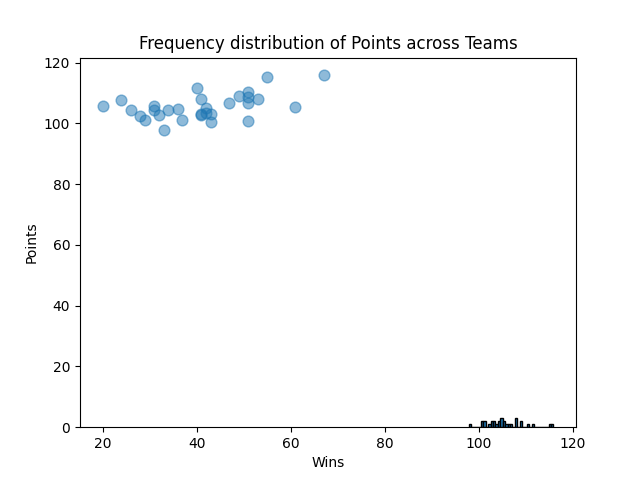
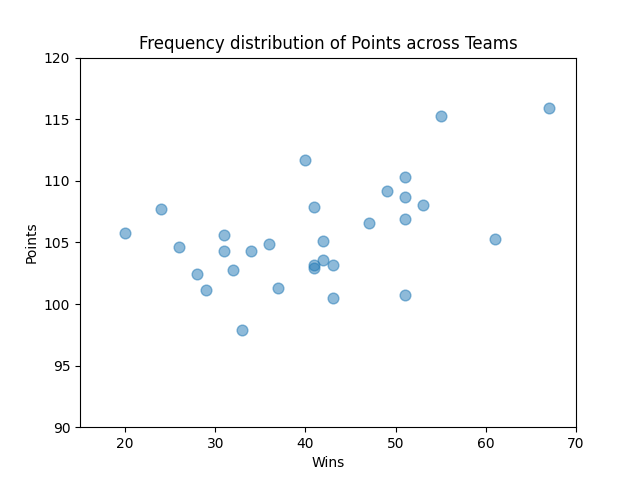
change main.py

diff --git a/descriptive.py b/descriptive.py
@@ -25,6 +25,8 @@ if __name__ == "__main__":
     plt.scatter(nba["wins"], nba["points"], alpha=0.5, s=60)
     plt.xlabel("Wins")
     plt.ylabel("Points")
+    plt.xlim(15, 70)
+    plt.ylim(90, 120)
     plt.show()
     plt.savefig("figures/scatter.png")
 
@@ -32,7 +34,7 @@ if __name__ == "__main__":
     ## Descriptive statistics 
 
     {summary.to_pandas().to_markdown()} 
-    
+
     ## Here are some plots to visualize relations between the important variables described in README. 
     ### Histogram for Cumulative Points for all the teams during the season 
      ![Alt text](figures/points-hist.png) 

diff --git a/report.md b/report.md
@@ -1,5 +1,5 @@
 # This is the generated report for summary statistics and visualization for [nba-teams-2017.csv](https://github.com/nogibjj/706_Week03_YL/blob/main/nba-teams-2017.csv).
-## Descriptive statistics 
+    ## Descriptive statistics 
 
     |    | describe   |   games_played |   wins |   losses |   win_prop |   minutes |   points |   field_goals |   field_goals_attempted |   field_goals_prop |   points3 |   points3_attempted |   points3_prop |   free_throws |   free_throws_att |   free_throws_prop |   off_rebounds |   def_rebounds |   rebounds |   assists |   turnovers |    steals |   blocks |   block_fga |   personal_fouls |   personal_fouls_drawn |   plus_minus |
 |---:|:-----------|---------------:|-------:|---------:|-----------:|----------:|---------:|--------------:|------------------------:|-------------------:|----------:|--------------------:|---------------:|--------------:|------------------:|-------------------:|---------------:|---------------:|-----------:|----------:|------------:|----------:|---------:|------------:|-----------------:|-----------------------:|-------------:|
@@ -12,9 +12,9 @@
 |  6 | 50%        |             82 | 41     |   41     |   0.5      | 48.3      | 105.1    |      39.3     |                85.4     |           45.5     |   9.4     |            26.1     |       35.7     |      18       |          23.2     |           77.6     |        10.1    |       33.5     |   43.6     |  22.5     |    13.8     |  7.8      |  4.8     |    5        |         20.1     |               19.9     |  0.2         |
 |  7 | 75%        |             82 | 51     |   50     |   0.622    | 48.4      | 107.9    |      39.6     |                87.1     |           46.7     |  10.4     |            28.8     |       37.2     |      19.2     |          24.2     |           79.6     |        11.1    |       34.4     |   44.4     |  23.8     |    15       |  8.2      |  5       |    5.2      |         20.8     |               20.4     |  2.6         |
 |  8 | max        |             82 | 67     |   62     |   0.817    | 48.6      | 115.9    |      43.1     |                88.8     |           49.5     |  14.4     |            40.3     |       39.1     |      20.4     |          26.5     |           81.5     |        12.2    |       35.1     |   46.6     |  30.4     |    16.7     |  9.6      |  6.8     |    5.6      |         24.8     |               22.4     | 11.6         | 
-    
-## Here are some plots to visualize relations between the important variables described in README. 
-### Histogram for Cumulative Points for all the teams during the season 
-![Alt text](figures/points-hist.png) 
-### Scatterplot for number of games won versus cumulative points for all teams during the season 
-![Alt text](figures/scatter.png)
+
+    ## Here are some plots to visualize relations between the important variables described in README. 
+    ### Histogram for Cumulative Points for all the teams during the season 
+     ![Alt text](figures/points-hist.png) 
+     ### Scatterplot for number of games won versus cumulative points for all teams during the season 
+     ![Alt text](figures/scatter.png)
